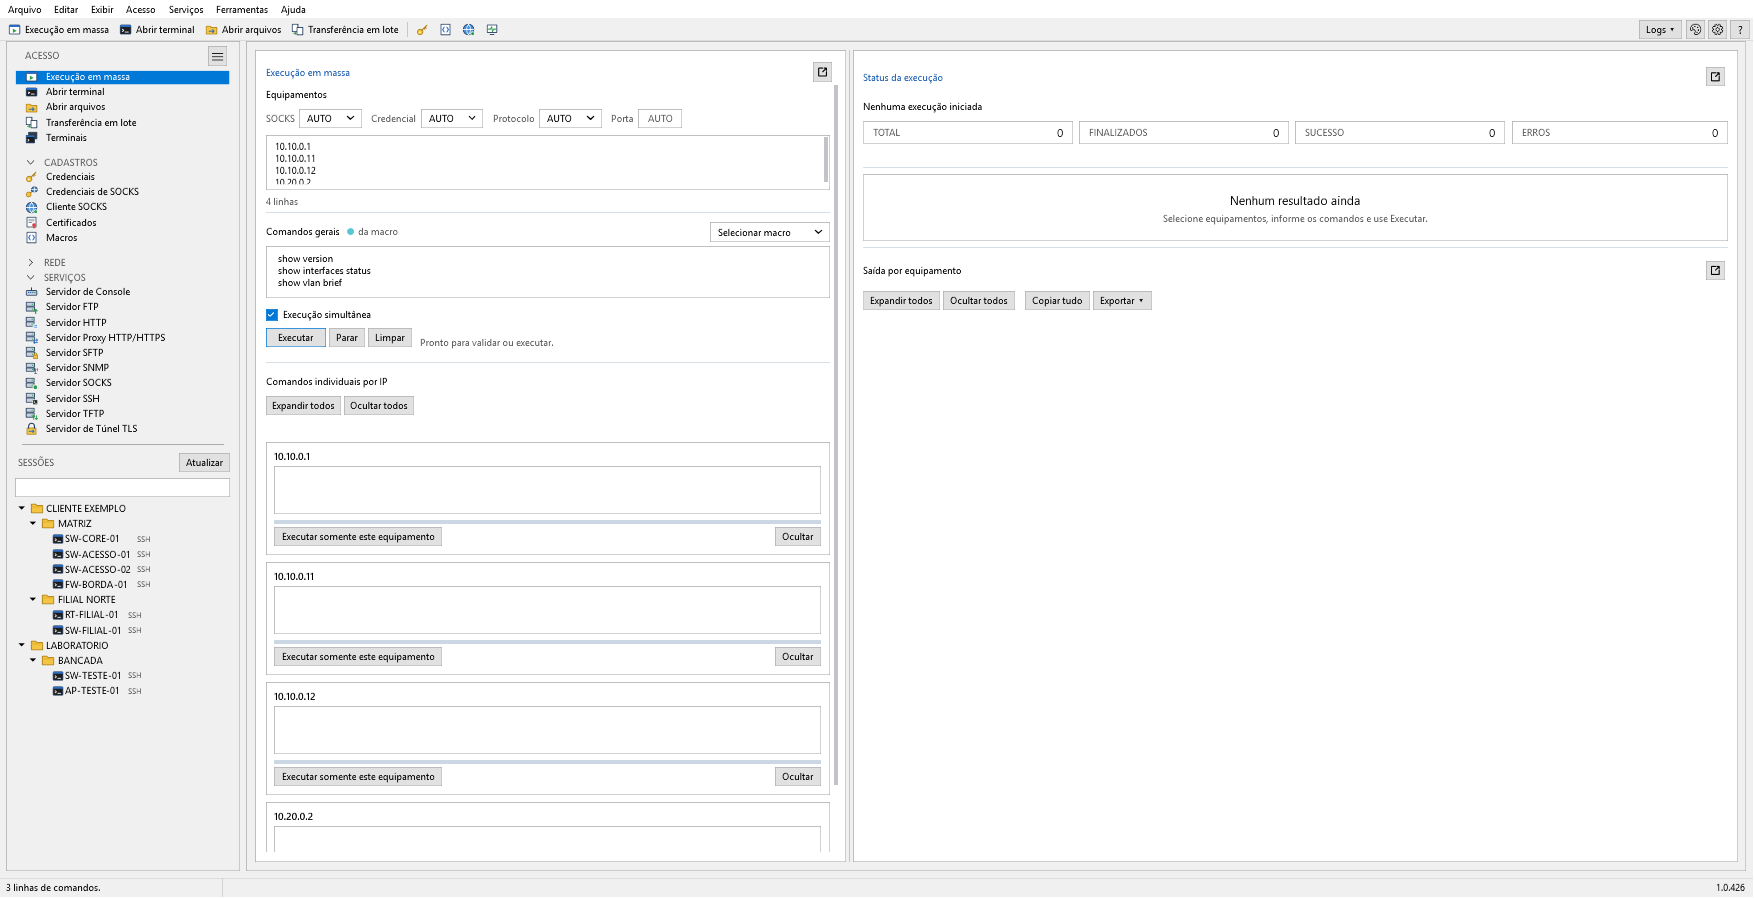
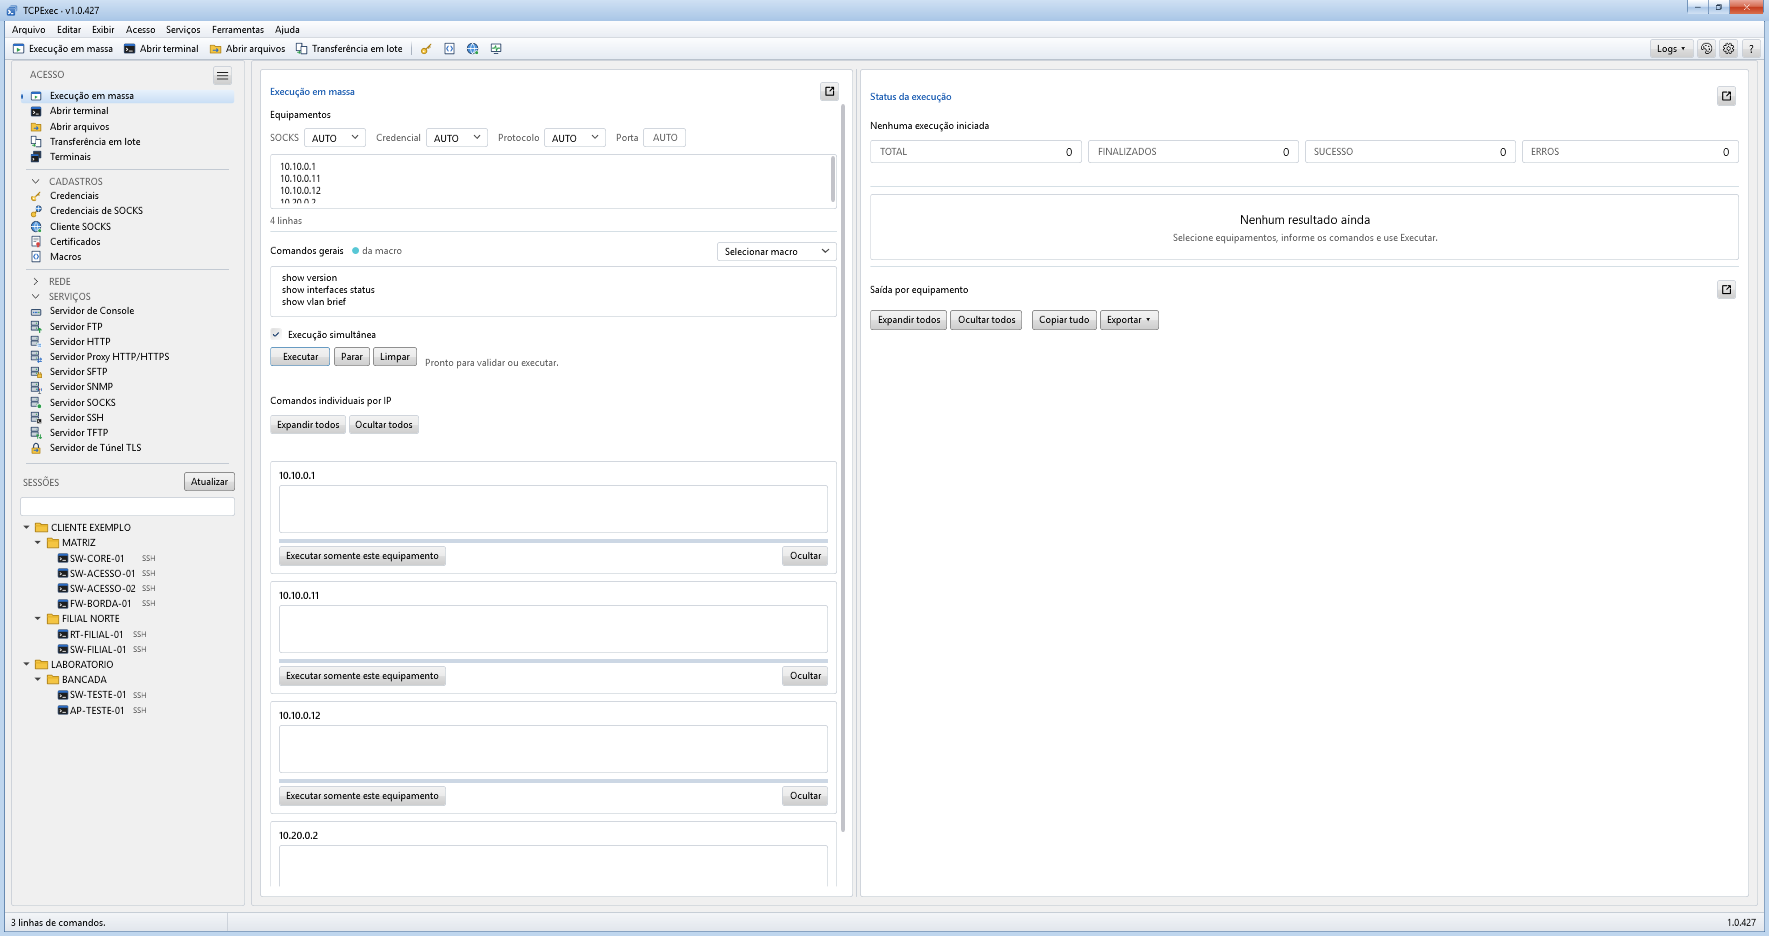
README e telas da 1.0.427 (Modo clássico Windows 7)

Changed region(s): [[0.0, 0.0, 1.0, 1.0]]

diff --git a/README.md b/README.md
@@ -3,18 +3,19 @@
 Acesse e execute comandos em switches, roteadores, firewalls e servidores, um ou centenas de uma vez. / Access and run commands on switches, routers, firewalls and servers, one or hundreds at a time.
 
 ![Tela principal / Main window](telas/principal.png)
-![Aparência Clássico / Classic appearance](telas/classico.png)
+![Modo clássico (Windows 7) / Classic mode (Windows 7)](telas/classico.png)
+![As 10 cores de janela / The 10 window colors](telas/cores.png)
 ![Escolha da aparência / Appearance choice](telas/escolha.png)
 
-## Baixar / Download — v1.0.426
+## Baixar / Download — v1.0.427
 
-- [Instalador / Installer (.msi)](https://github.com/Dorflex-DD/TCPExec/releases/download/v1.0.426/TCPExec_v1.0.426_instalador_sem-runtime.msi)
-- [Portátil / Portable (.zip)](https://github.com/Dorflex-DD/TCPExec/releases/download/v1.0.426/TCPExec_v1.0.426_executavel_sem-runtime.zip)
+- [Instalador / Installer (.msi)](https://github.com/Dorflex-DD/TCPExec/releases/download/v1.0.427/TCPExec_v1.0.427_instalador_sem-runtime.msi)
+- [Portátil / Portable (.zip)](https://github.com/Dorflex-DD/TCPExec/releases/download/v1.0.427/TCPExec_v1.0.427_executavel_sem-runtime.zip)
 
 Windows 10/11 x64 · .NET 11
 
 ## Novidades / What's new
 
-- Nova aparência Clássico, com cara de programa do Windows. / New Classic appearance that looks like a Windows program.
-- Ao atualizar, o app pergunta: Padrão ou Clássico. / After updating, the app asks: Default or Classic.
-- No Clássico, ícones coloridos, cinza ou azuis. / In Classic, colored, gray or blue icons.
+- Novo Modo clássico (Windows 7). / New classic mode (Windows 7).
+- 10 cores de janela. / 10 window colors.
+- Estilo e cor em Configurações, vale na hora. / Style and color in Settings, applied right away.
